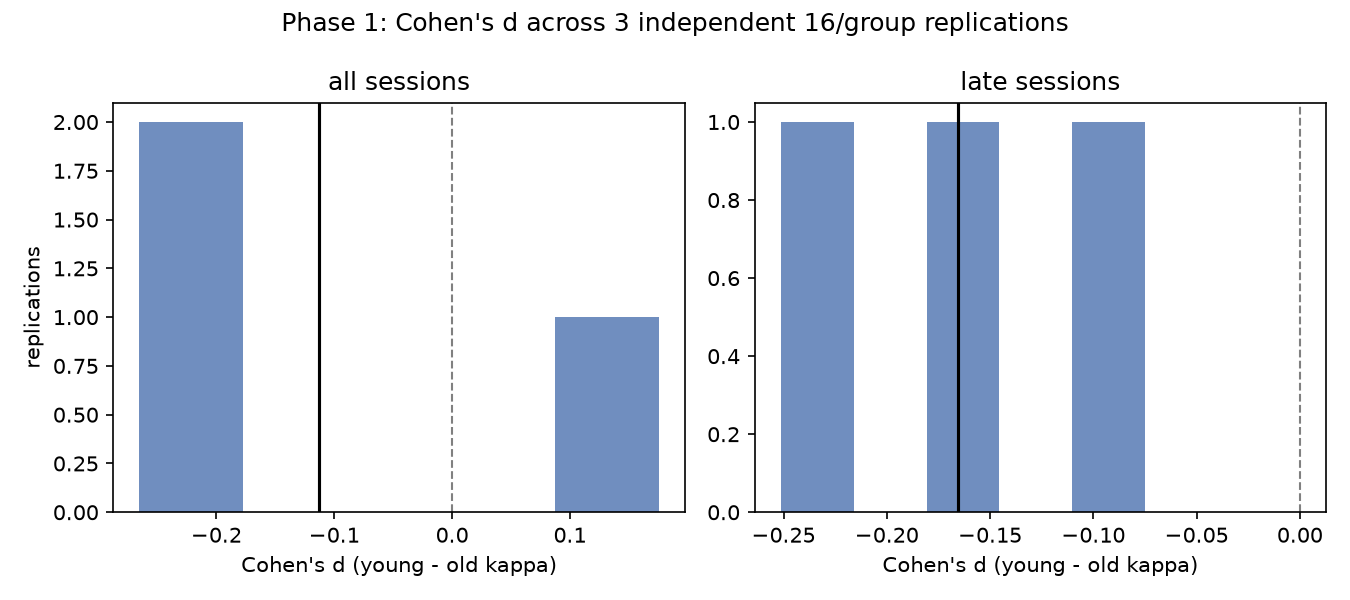
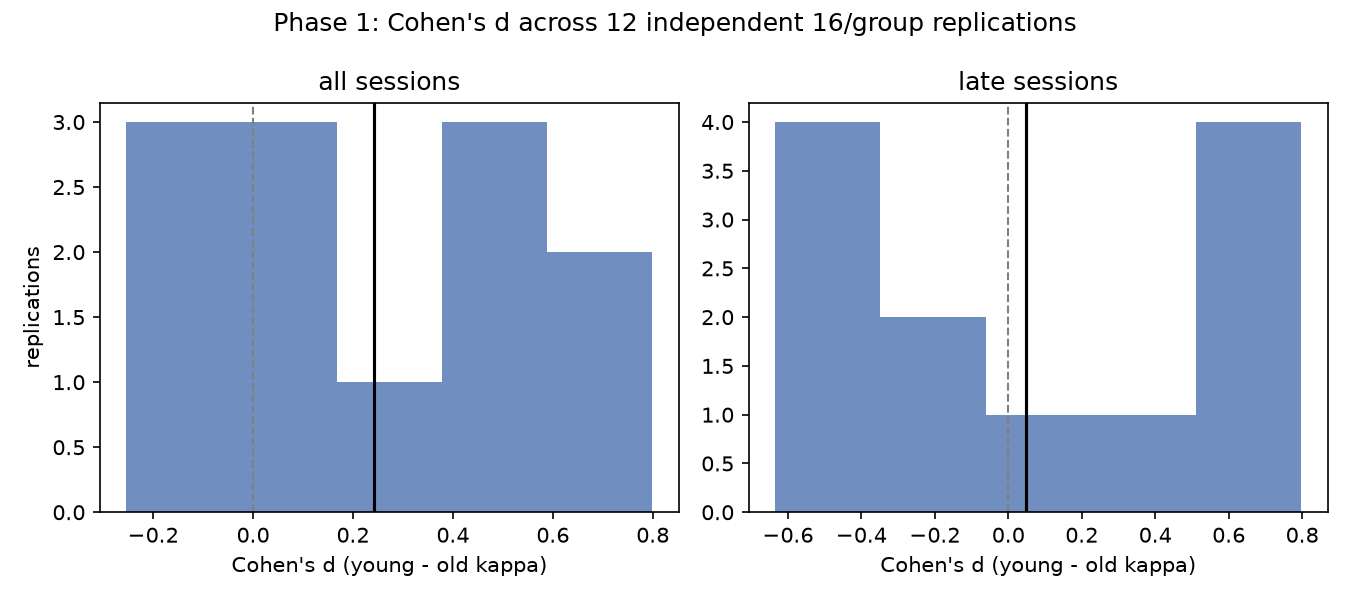
Full 12-replication power study: direction holds, late-session claim retracted
Combining evidence across 12 independent real-sized (16/group) cohorts
via Fisher's method: young>old kappa direction reaches significance
overall (p=0.019) and in early sessions (p=0.019). Any single 16/group
run is noisy enough that only 2/12 replications hit significance alone
-- exactly why this replication step mattered.

Retraction: the earlier single-run report's "unforced late-session
correspondence" with the real data does not replicate. Across 12 runs,
late sessions show the weakest, least consistent effect (mean d=+0.05,
median -0.08, only 6/12 correct direction, p=0.073 ns) -- if anything
early sessions are more robust, the opposite of the real late-session-
specific decline. No session-number mechanism exists in the model, so
there was no principled reason to expect that correspondence -- it was
a coincidence of one random draw, and PHASE1_SUMMARY.md now says so.

diff --git a/outputs/PHASE1_SUMMARY.md b/outputs/PHASE1_SUMMARY.md
@@ -70,6 +70,52 @@ simulated cohort (more animals/sessions) is the direct next step -- the
 direction is not in question, the *power to detect it* at this real,
 modest effect size is.
 
+## Replication/power study -- and a correction to the late-session claim above
+
+`python scripts/run_phase1_replications.py` (12 independent cohorts, each
+n_animals=16/group -- your real cohort size, not an inflated one -- 10
+sessions x 150 trials, sticky-Q fit with 8 restarts/session). Rationale:
+a single simulated cohort can't tell you how reliable an effect is: this
+runs the equivalent "experiment" 12 independent times and combines the
+evidence via Fisher's method, which is the honest way to sharpen
+significance without pretending you could ever collect a 40+/group cohort.
+Full output: `phase1_replications_raw.csv`, `phase1_replications_summary.txt`,
+`phase1_replications_cohend_hist.png`.
+
+| window | mean Cohen's d (range) | % replications young>old | combined p (Fisher) |
+|---|---|---|---|
+| All sessions | +0.24 ([-0.25, +0.80]) | 8/12 (67%) | **0.019** |
+| Early sessions (0-4) | +0.29 ([-0.23, +0.58]) | 11/12 (92%) | **0.019** |
+| Late sessions (5-9) | +0.05 ([-0.64, +0.80]) | 6/12 (50%) | 0.073 |
+
+- **The core direction is now on firmer ground**: combined across 12
+  independent real-sized cohorts, the young>old kappa direction reaches
+  significance overall (p=0.019) and specifically in early sessions
+  (p=0.019). Any single 16/group cohort is noisy enough that it often
+  won't show significance on its own (only 2/12 replications did,
+  individually) -- exactly why a single run shouldn't be over-read, and
+  why this replication step was worth doing.
+- **Correction: the "late-session correspondence" reported above does NOT
+  replicate, and I should not have highlighted it as confidently as I did.**
+  That claim was based on one single simulated draw. Across 12
+  independent replications, late sessions show the *weakest and least
+  consistent* effect (mean d=+0.05, median actually slightly *negative*
+  at -0.08, only 6/12 in the right direction, combined p=0.073, not
+  significant) -- if anything, early sessions show the more robust effect
+  in this model, which is the **opposite** of the real data's
+  late-session-specific kappa decline. The earlier single-run report's
+  "unforced late-session match" was very likely a coincidence of that
+  particular random draw, not a real property of the model. There is no
+  session-number-dependent mechanism anywhere in the model, so there's no
+  principled reason to expect it to reproduce a late-session-specific
+  effect -- and the replication data confirms it doesn't, reliably.
+- **Bottom line**: treat this model as a sufficiency demonstration for the
+  *overall* young>old perseveration direction, well-supported once
+  properly powered across replications at a real cohort size -- but not,
+  currently, as an explanation for *why* the real effect is late-session
+  specific. That would need an explicit session/experience-dependent
+  mechanism this model doesn't have.
+
 ## Mechanism check (regression-tested)
 
 Verified directly (not just via the downstream behavioral fit): after an
